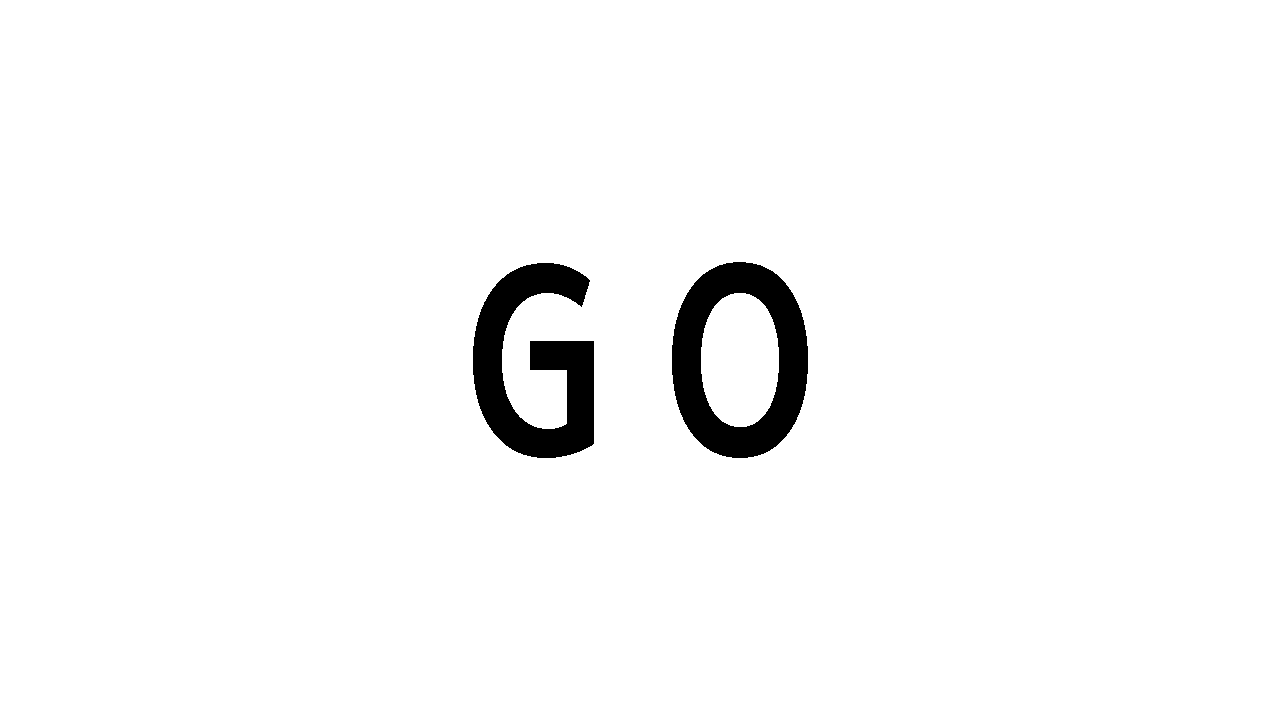
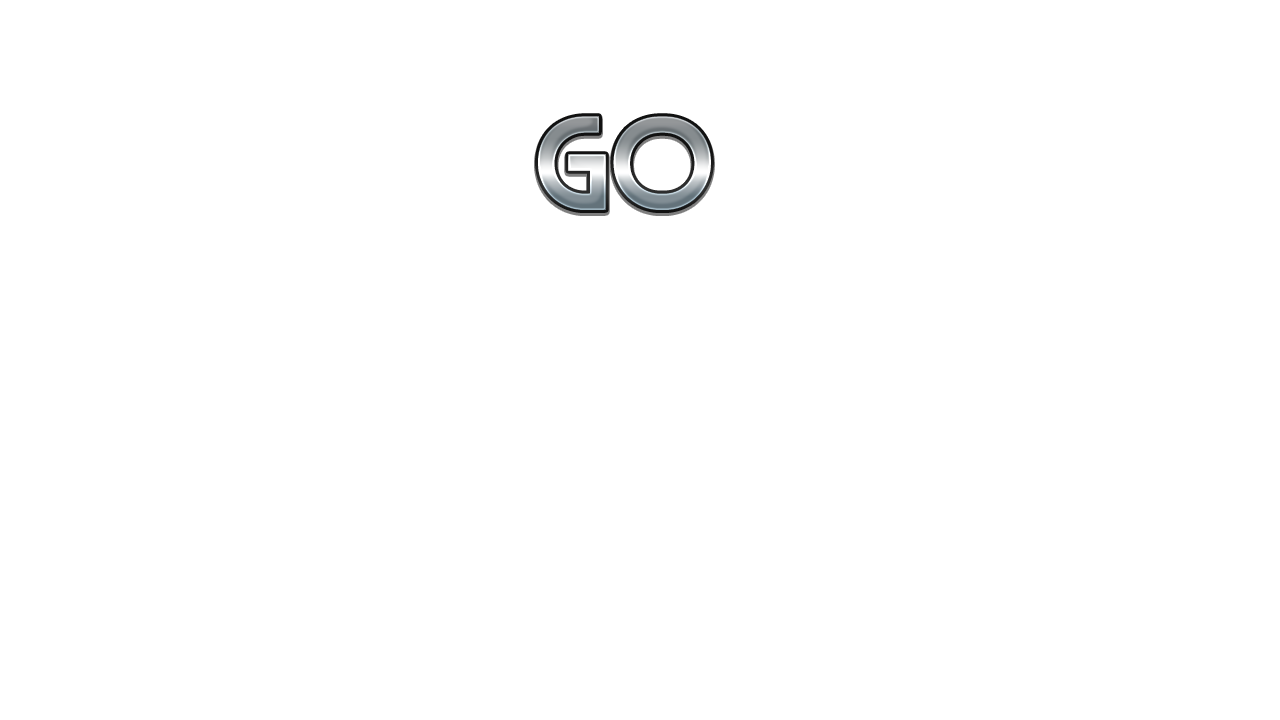
パーティクル追加

Changed region(s): [[0.5, 0.3667, 0.6562, 0.6417], [0.3438, 0.3667, 0.4688, 0.6417], [0.4062, 0.1528, 0.5625, 0.3056]]

diff --git a/User/SCENE/GameScene.cpp b/User/SCENE/GameScene.cpp
@@ -40,7 +40,7 @@ void GameScene::Initialize(DirectXCommon* dxCommon, Input* input) {
 	titleSprite->Initialize(spriteCommon);
 	titleSprite->SetPozition({ 0,0 });
 	titleSprite->SetSize({ 1280.0f, 720.0f });
-	spriteCommon->LoadTexture(1, "title.png");
+	spriteCommon->LoadTexture(1, "Titlee.png");
 	titleSprite->SetTextureIndex(1);
 
 	spaceSprite->Initialize(spriteCommon);
@@ -127,31 +127,24 @@ void GameScene::Initialize(DirectXCommon* dxCommon, Input* input) {
 	spriteCommon->LoadTexture(15, "out5.png");
 	out5Sprite->SetTextureIndex(15);
 
-	//スタートカウント3
+	//スタートカウント
 	start3Sprite->Initialize(spriteCommon);
 	start3Sprite->SetPozition({ 0,0 });
 	start3Sprite->SetSize({ 1280.0f, 720.0f });
 	spriteCommon->LoadTexture(16, "3.png");
 	start3Sprite->SetTextureIndex(16);
-	//スタートカウント2
-	start2Sprite->Initialize(spriteCommon);
-	start2Sprite->SetPozition({ 0,0 });
-	start2Sprite->SetSize({ 1280.0f, 720.0f });
-	spriteCommon->LoadTexture(17, "2.png");
-	start2Sprite->SetTextureIndex(17);
-	//スタートカウント1
-	start1Sprite->Initialize(spriteCommon);
-	start1Sprite->SetPozition({ 0,0 });
-	start1Sprite->SetSize({ 1280.0f, 720.0f });
-	spriteCommon->LoadTexture(18, "1.png");
-	start1Sprite->SetTextureIndex(18);
-	//スタートカウント0
-	GOSprite->Initialize(spriteCommon);
-	GOSprite->SetPozition({ 0,0 });
-	GOSprite->SetSize({ 1280.0f, 720.0f });
-	spriteCommon->LoadTexture(19, "GO.png");
-	GOSprite->SetTextureIndex(19);
 	
+	goSprite->Initialize(spriteCommon);
+	goSprite->SetPozition({ 0,0 });
+	goSprite->SetSize({ 1280.0f, 720.0f });
+	spriteCommon->LoadTexture(17, "G.png");
+	goSprite->SetTextureIndex(17);
+	
+	go2Sprite->Initialize(spriteCommon);
+	go2Sprite->SetPozition({ 0,0 });
+	go2Sprite->SetSize({ 1280.0f, 720.0f });
+	spriteCommon->LoadTexture(18, "O.png");
+	go2Sprite->SetTextureIndex(18);
 
 	// カメラ生成
 	mainCamera = new Camera(WinApp::window_width, WinApp::window_height);
@@ -206,6 +199,10 @@ void GameScene::Reset() {
 	startFlag = 0;
 	startCountTimer = 0;
 	startCountFlag = 0;
+	roadTimer = 0;
+	//スプライトの位置を初期化
+	goSprite->SetPozition({ 0,0 });
+	go2Sprite->SetPozition({ 0,0 });
 }
 
 void GameScene::FadeOut()
@@ -250,7 +247,7 @@ void GameScene::Update() {
 			}
 			if (fadeFlag == 1) {
 				fadeTimer++;
-				if (fadeTimer >= 50) {
+				if (fadeTimer >= 47) {
 					fadeCount = 0;
 					outTimer = 0;
 					Reset();
@@ -265,11 +262,14 @@ void GameScene::Update() {
 	case SceneNo::GAME:
 		if (sceneNo_ == SceneNo::GAME) {
 			if (fadeFlag == 1) {
-				fadeTimer--;
-				if (fadeTimer <= 1) {
+				roadTimer++;
+				if (roadTimer >= 50) {
+					fadeTimer--;
+					if (fadeTimer <= 1) {
 
-					fadeFlag = 0;
-					fadeTimer = 0;
+						fadeFlag = 0;
+						fadeTimer = 0;
+					}
 				}
 			}
 			//ゲーム開始までの演出
@@ -293,6 +293,29 @@ void GameScene::Update() {
 					}
 					else if (startTimer <= 120 && startTimer >= 91) {
 						startCount = 4;
+						if (startTimer <= 103 && startTimer >= 100) {
+							goSprite->SetPozition({ 0,-20 });
+							go2Sprite->SetPozition({ 0,20 });
+						}else if (startTimer <= 106 && startTimer >= 104) {
+							goSprite->SetPozition({ 0,-40 });
+							go2Sprite->SetPozition({ 0,40 });
+						}
+						else if (startTimer <= 109 && startTimer >= 107) {
+							goSprite->SetPozition({ 0,-60 });
+							go2Sprite->SetPozition({ 0,60 });
+						}
+						else if (startTimer <= 113 && startTimer >= 110) {
+							goSprite->SetPozition({ 0,-80 });
+							go2Sprite->SetPozition({ 0,80 });
+						}
+						else if (startTimer <= 117 && startTimer >= 114) {
+							goSprite->SetPozition({ 0,-100 });
+							go2Sprite->SetPozition({ 0,100 });
+						}
+						else if (startTimer <= 120 && startTimer >= 118) {
+							goSprite->SetPozition({ 0,-120 });
+							go2Sprite->SetPozition({ 0,120 });
+						}
 					}
 					else if (startTimer >= 121) {
 						startCount = 5;
@@ -404,22 +427,22 @@ void GameScene::Draw() {
 				spaceSprite->Draw();
 			}
 			//フェードインフェードアウト
-			if (fadeTimer <= 8 && fadeTimer >= 1) {
+			if (fadeTimer <= 5 && fadeTimer >= 1) {
 				outSprite->Draw();
 			}
-			else if (fadeTimer <= 17 && fadeTimer >= 9) {
+			else if (fadeTimer <= 14 && fadeTimer >= 6) {
 				out1Sprite->Draw();
 			}
-			else if (fadeTimer <= 26 && fadeTimer >= 18) {
+			else if (fadeTimer <= 23 && fadeTimer >= 15) {
 				out2Sprite->Draw();
 			}
-			else if (fadeTimer <= 35 && fadeTimer >= 27) {
+			else if (fadeTimer <= 32 && fadeTimer >= 24) {
 				out3Sprite->Draw();
 			}
-			else if (fadeTimer <= 42 && fadeTimer >= 36) {
+			else if (fadeTimer <= 39 && fadeTimer >= 33) {
 				out4Sprite->Draw();
 			}
-			else if (fadeTimer <= 50 && fadeTimer >= 43) {
+			else if (fadeTimer <= 47 && fadeTimer >= 40) {
 				out5Sprite->Draw();
 			}
 		}
@@ -446,53 +469,57 @@ void GameScene::Draw() {
 
 			//// パーティクル UI FBX スプライト描画
 			player_->FbxDraw();
-
+			enemy_->EffDraw();
 			enemy_->FbxDraw();
-			
+			if (startFlag == 1) {
+				//HPバー
+				if (enemy_->GetPlayerHP() <= 15 && enemy_->GetPlayerHP() >= 11) {
+					HPSprite->Draw();
+				}
+				else if (enemy_->GetPlayerHP() <= 10 && enemy_->GetPlayerHP() >= 6) {
+					HP2Sprite->Draw();
+				}
+				else if (enemy_->GetPlayerHP() <= 5 && enemy_->GetPlayerHP() >= 1) {
+					HP1Sprite->Draw();
+				}
+				else if (enemy_->GetPlayerHP() <= 0) {
+					HP0Sprite->Draw();
+				}
+			}
+
 			//フェードインフェードアウト
-			if (fadeTimer <= 8 && fadeTimer >= 1) {
+			if (fadeTimer <= 5 && fadeTimer >= 1) {
 				outSprite->Draw();
 			}
-			else if (fadeTimer <= 17 && fadeTimer >= 9) {
+			else if (fadeTimer <= 14 && fadeTimer >= 6) {
 				out1Sprite->Draw();
 			}
-			else if (fadeTimer <= 26 && fadeTimer >= 18) {
+			else if (fadeTimer <= 23 && fadeTimer >= 15) {
 				out2Sprite->Draw();
 			}
-			else if (fadeTimer <= 35 && fadeTimer >= 27) {
+			else if (fadeTimer <= 32 && fadeTimer >= 24) {
 				out3Sprite->Draw();
 			}
-			else if (fadeTimer <= 42 && fadeTimer >= 36) {
+			else if (fadeTimer <= 39 && fadeTimer >= 33) {
 				out4Sprite->Draw();
 			}
-			else if (fadeTimer <= 50 && fadeTimer >= 43) {
+			else if (fadeTimer <= 47 && fadeTimer >= 40) {
 				out5Sprite->Draw();
 			}
 			//カウントダウン
 			if (startCount == 1) {
 				start3Sprite->Draw();
 			}else if (startCount == 2) {
-				start2Sprite->Draw();
+				start3Sprite->Draw();
 			}
 			else if (startCount == 3) {
-				start1Sprite->Draw();
+				start3Sprite->Draw();
 			}
 			else if (startCount == 4) {
-				GOSprite->Draw();
+				goSprite->Draw();
+				go2Sprite->Draw();
 			}
 
-			//HPバー
-			if (enemy_->GetPlayerHP() <= 15 && enemy_->GetPlayerHP() >= 11) {
-				HPSprite->Draw();
-			}else if (enemy_->GetPlayerHP() <= 10 && enemy_->GetPlayerHP() >= 6) {
-				HP2Sprite->Draw();
-			}
-			else if (enemy_->GetPlayerHP() <= 5 && enemy_->GetPlayerHP() >= 1) {
-				HP1Sprite->Draw();
-			}
-			else if (enemy_->GetPlayerHP() <= 0) {
-				HP0Sprite->Draw();
-			}
 		}
 		break;
 

diff --git a/User/player.cpp b/User/player.cpp
@@ -74,7 +74,7 @@ void Player::Reset()
 {
 	//プレイヤー
 	fbxObject3d_->Initialize();
-	fbxObject3d_->wtf.position = { -1.5f,-0.1f,0.0f };
+	fbxObject3d_->wtf.position = { 0.0f,+1.5f,0.0f };
 	fbxObject3d_->wtf.scale = { 0.03f,0.03f,0.03f };
 	//プレイヤー回転
 	fbxRoteObject3d_->Initialize();
@@ -93,8 +93,8 @@ void Player::Reset()
 
 void Player::FadeIn()
 {
-	if (fbxObject3d_->wtf.position.x <= 0) {
-		fbxObject3d_->wtf.position.x += moveSpeed_;
+	if (fbxObject3d_->wtf.position.y >= 0) {
+		fbxObject3d_->wtf.position.y -= moveSpeed_;
 	}
 	
 }

diff --git a/User/SCENE/GameScene.h b/User/SCENE/GameScene.h
@@ -119,11 +119,13 @@ private:	//メンバ変数
 	int fadeFlag = 0;
 	int fadeTimer = 0;
 	//ゲームスタート
+	int roadTimer = 0;
+	 
 	//カウント
 	Sprite* start3Sprite = new Sprite();
-	Sprite* start2Sprite = new Sprite();
-	Sprite* start1Sprite = new Sprite();
-	Sprite* GOSprite = new Sprite();
+	
+	Sprite* goSprite = new Sprite();
+	Sprite* go2Sprite = new Sprite();
 	int startCountTimer = 0;
 	int startCountFlag = 0;
 	int startCount = 0;

diff --git a/User/SCENE/title.h b/User/SCENE/title.h
@@ -48,7 +48,7 @@ private:
 
 	Object3d* playerObj_ = nullptr;
 	Model* playerModel_ = nullptr;
-	
+	 
 	const float moveSpeed_ = 0.013f;
 	const float movexSpeed_ = 0.005f;
 	const float rotaSpeed_ = 0.1f;
